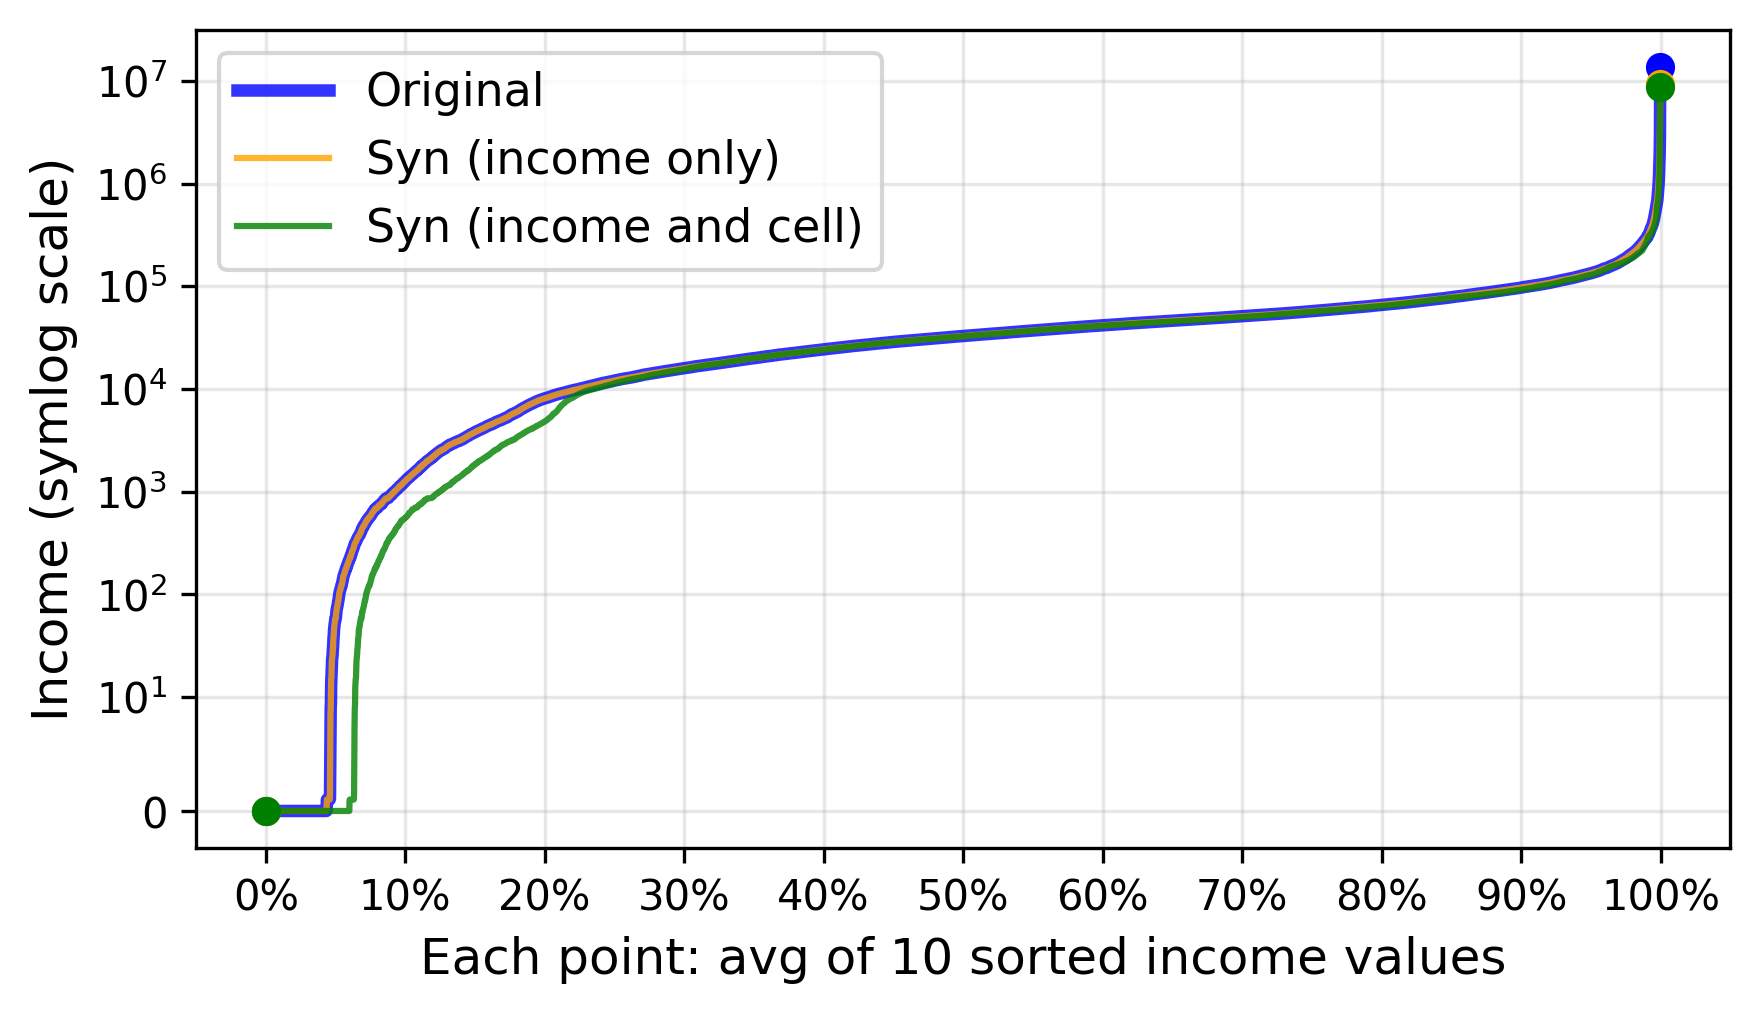
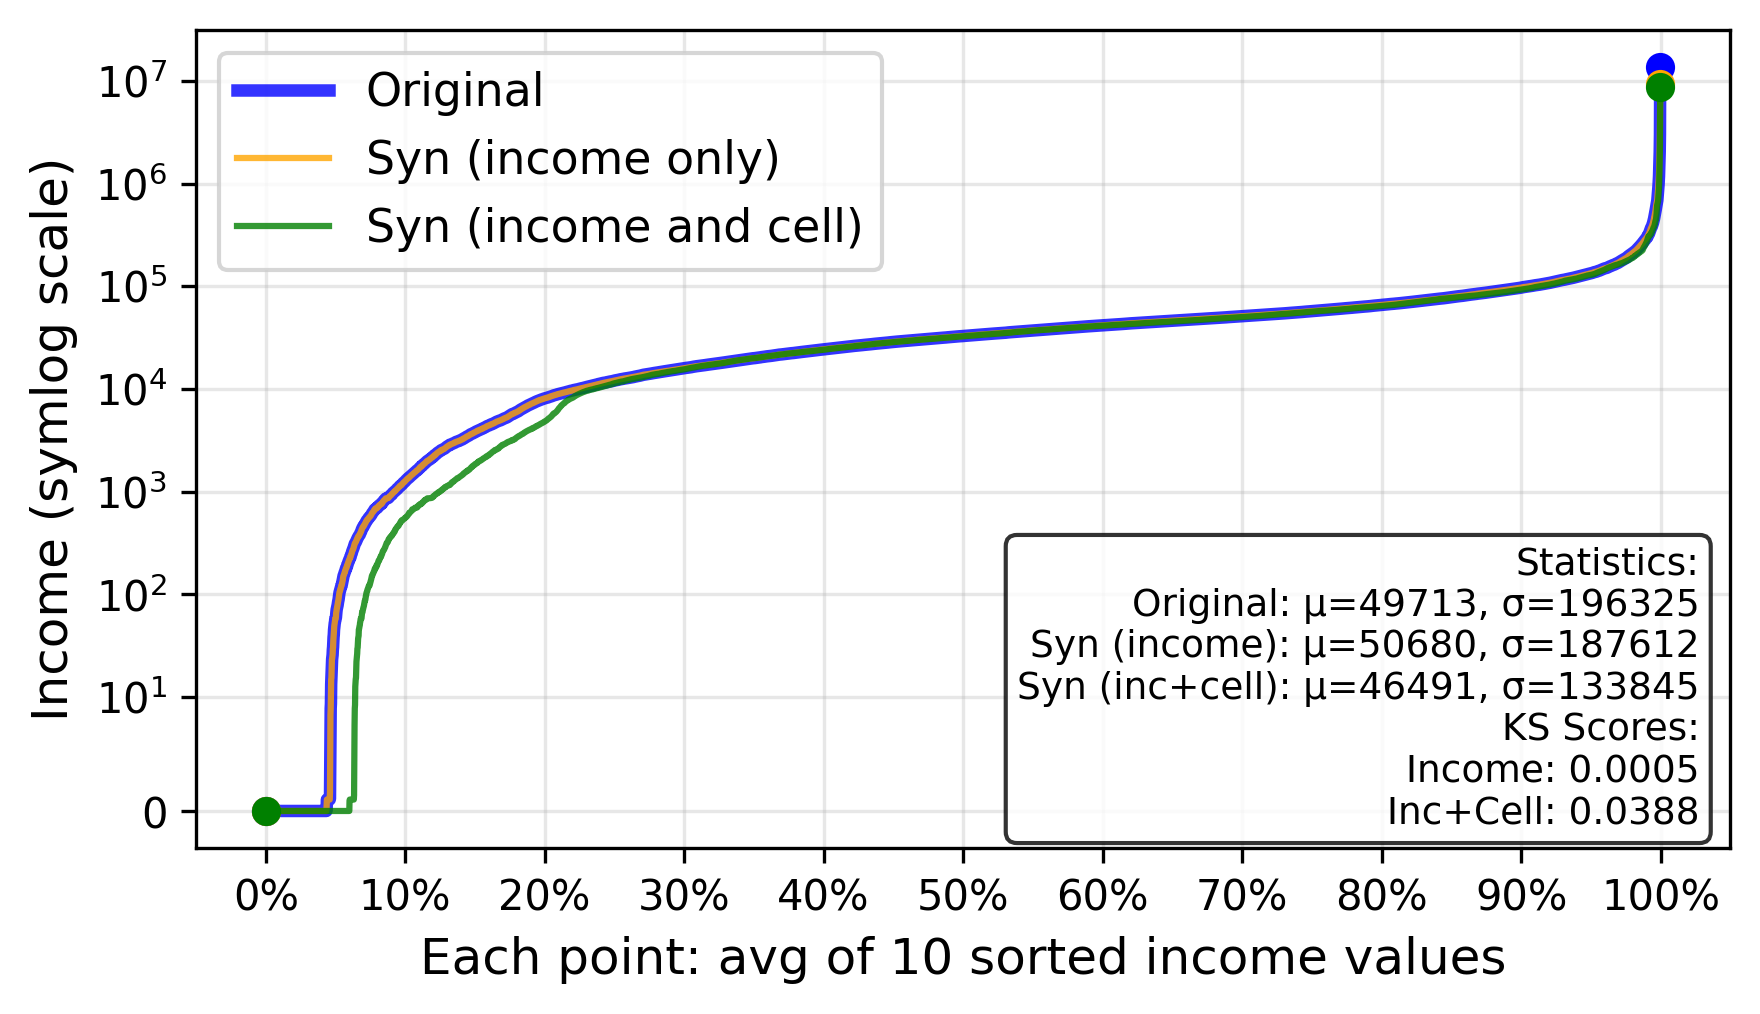
update

Changed region(s): [[0.5625, 0.5197, 0.9688, 0.856]]

diff --git a/testing/syndiffix/safe-values/pdfs2.py b/testing/syndiffix/safe-values/pdfs2.py
@@ -246,8 +246,8 @@ def create_grouped_income_pdf_plot(data_df, sal_df, cell_sal_stitched_df, datase
     plt.legend(fontsize=11, loc='upper left')
     plt.grid(True, alpha=0.3)
     
-    # Add text box with statistics for dense dataset
-    if dataset_name == 'dense':
+    # Add text box with statistics for dense and sparse datasets
+    if dataset_name in ['dense', 'sparse']:
         stats_text = f'Statistics:\n'
         stats_text += f'Original: μ={original_sal_grouped.mean():.0f}, σ={original_sal_grouped.std():.0f}\n'
         stats_text += f'Syn (income): μ={synthetic_sal_grouped.mean():.0f}, σ={synthetic_sal_grouped.std():.0f}\n'
